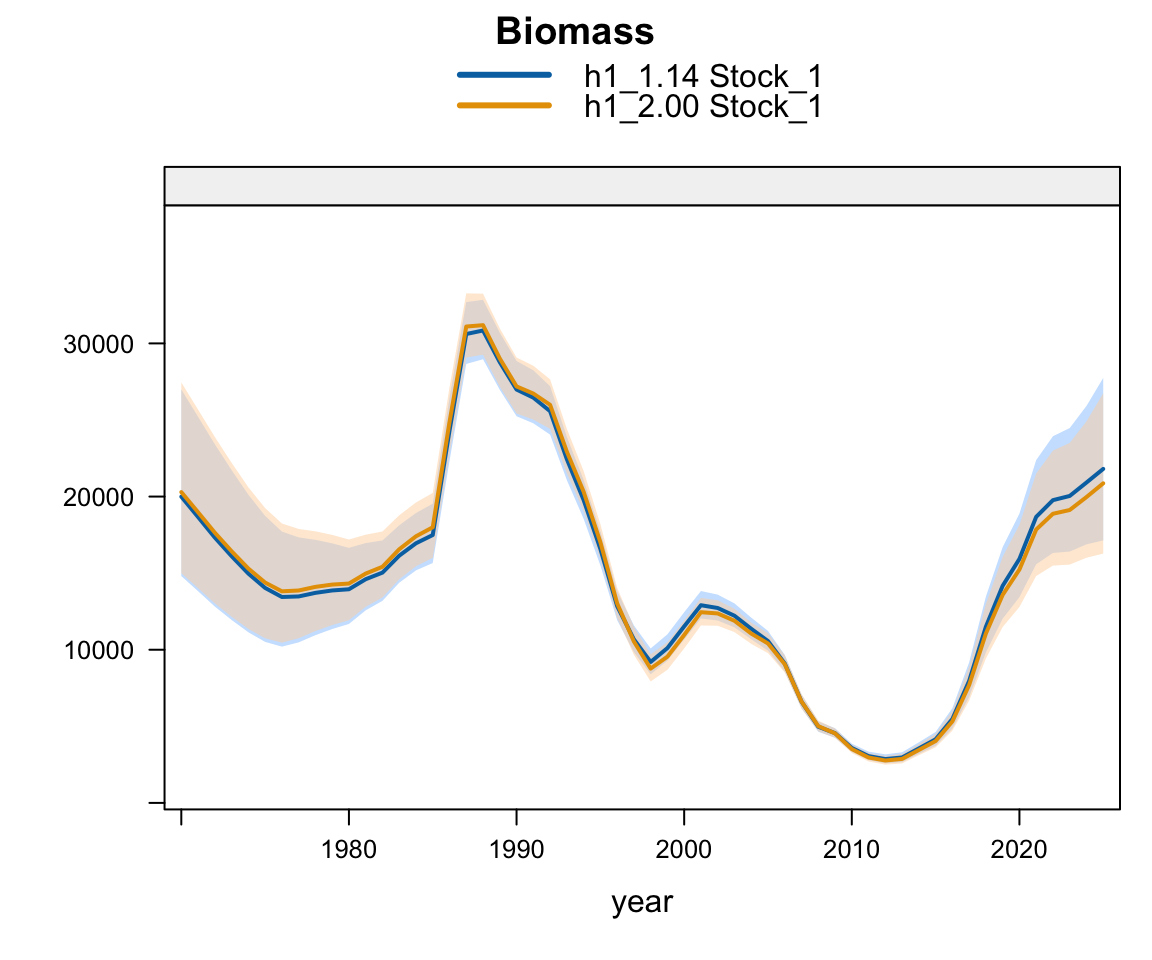
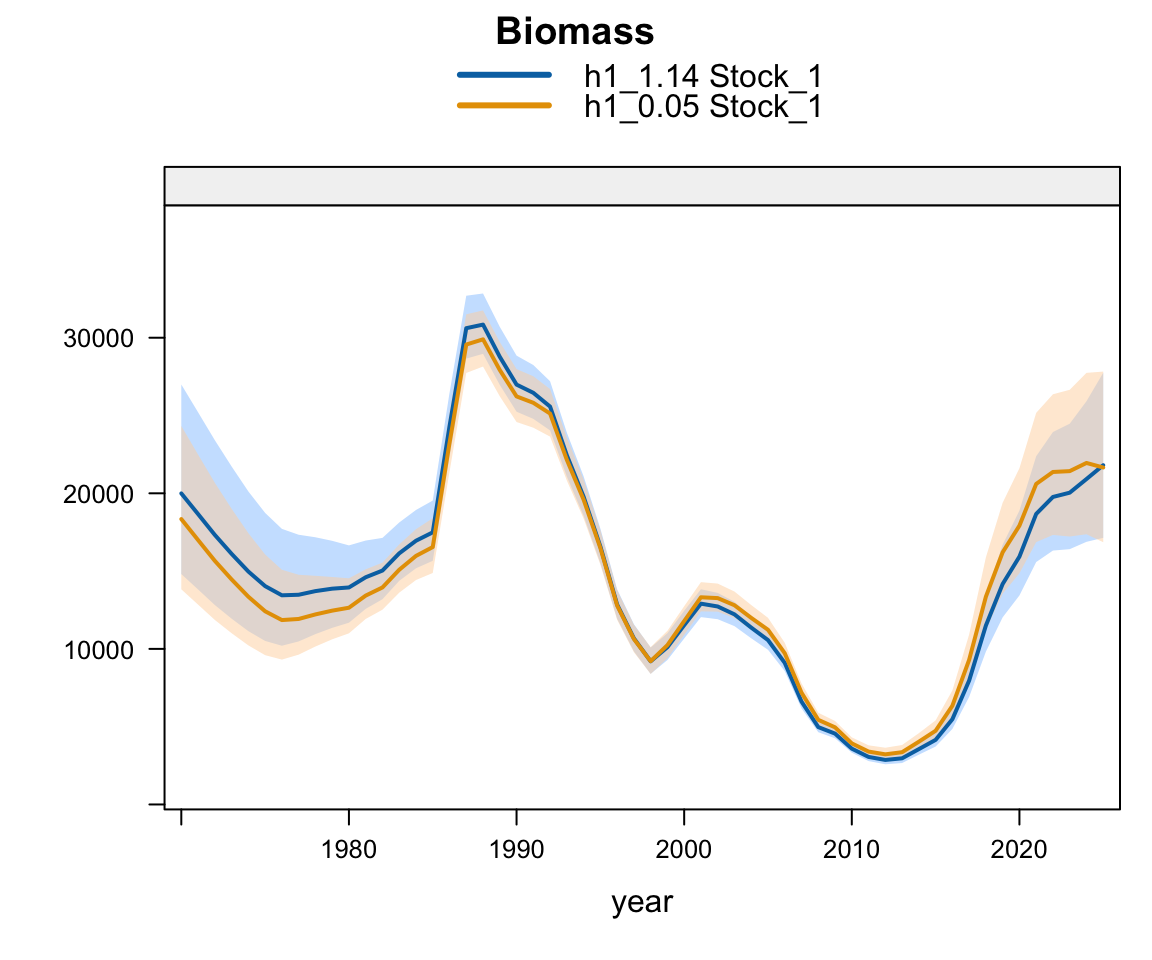
Use 0.05 as SCW16 candidate model

diff --git a/docs/SCW16_models.html b/docs/SCW16_models.html
@@ -344,7 +344,7 @@ pre > code.sourceCode > span > a:first-child::before { text-decoration: underlin
   </div>
 </div>
 <div class="paper-title">Jack Mackerel Assessment SCW16</div>
-<p>This document was originally compiled in <code>RMarkdown</code> then converted into Quarto (a different flavor of markdown). It now tracks the SCW16 benchmark model sequence for Chilean jack mackerel (<em>Trachurus murphyi</em>), beginning with the documented <code>1.14</code> model series and moving to the candidate <code>2.00</code> benchmark pair. The files associated with this document can be found on <a href="https://github.com/SPRFMO/jjm/tree/master/assessment">Github</a>.</p>
+<p>This document was originally compiled in <code>RMarkdown</code> then converted into Quarto (a different flavor of markdown). It now tracks the SCW16 model sequence for Chilean jack mackerel (<em>Trachurus murphyi</em>), beginning with the documented <code>1.14</code> model series and moving to the candidate <code>0.05</code> pair for now. The files associated with this document can be found on <a href="https://github.com/SPRFMO/jjm/tree/master/assessment">Github</a>.</p>
 <p>The code to create the input files for this assessment and to run these models can be found in <a href="https://github.com/SPRFMO/jjm/tree/master/assessment/R/SC13_Bridging.R"><code>jjm/assessment/R/SC13_Bridging.R</code></a>. Should you choose to run the models, please ensure that you have:</p>
 <ul>
 <li>Compiled the latest <code>jjm/src/jjms.tpl</code>
@@ -430,7 +430,7 @@ pre > code.sourceCode > span > a:first-child::before { text-decoration: underlin
 <span id="cb2-58"><a href="#cb2-58" aria-hidden="true" tabindex="-1"></a>}</span>
 <span id="cb2-59"><a href="#cb2-59" aria-hidden="true" tabindex="-1"></a></span>
 <span id="cb2-60"><a href="#cb2-60" aria-hidden="true" tabindex="-1"></a>reference_model <span class="ot">&lt;-</span> <span class="st">"1.14"</span></span>
-<span id="cb2-61"><a href="#cb2-61" aria-hidden="true" tabindex="-1"></a>candidate_model <span class="ot">&lt;-</span> <span class="st">"2.00"</span></span>
+<span id="cb2-61"><a href="#cb2-61" aria-hidden="true" tabindex="-1"></a>candidate_model <span class="ot">&lt;-</span> <span class="st">"0.05"</span></span>
 <span id="cb2-62"><a href="#cb2-62" aria-hidden="true" tabindex="-1"></a>candidate_pair <span class="ot">&lt;-</span> <span class="fu">paste0</span>(<span class="fu">c</span>(<span class="st">"h1_"</span>, <span class="st">"h2_"</span>), candidate_model)</span>
 <span id="cb2-63"><a href="#cb2-63" aria-hidden="true" tabindex="-1"></a>candidate_pair_available <span class="ot">&lt;-</span> <span class="fu">all</span>(<span class="fu">model_file_status</span>(candidate_pair)<span class="sc">$</span>report_file)</span>
 <span id="cb2-64"><a href="#cb2-64" aria-hidden="true" tabindex="-1"></a>finmodname <span class="ot">&lt;-</span> <span class="cf">if</span> (candidate_pair_available) candidate_model <span class="cf">else</span> reference_model</span>
@@ -442,7 +442,7 @@ pre > code.sourceCode > span > a:first-child::before { text-decoration: underlin
 <section id="model-naming-convention" class="level1" data-number="1">
 <h1 data-number="1"><span class="header-section-number">1</span> Model Naming Convention</h1>
 <p>File naming conventions have been changed to reflect the stock structure hypotheses associated with each run. The <code>h1</code> denotes the single-stock hypothesis, while <code>h2</code> denotes the two-stock one.</p>
-<p>For SCW16, the benchmark work is being reorganized around two paired model series:</p>
+<p>For SCW16, the work is being reorganized around the reference pair and the paired <code>0.xx</code> data-replacement sequence:</p>
 <ul>
 <li><code>h1_1.14</code> and <code>h2_1.14</code> are the documented reference models from the SC13 update sequence. They provide the immediate baseline for biological inputs, index treatment, selectivity changes, and FarNorth weight-at-age corrections.</li>
 <li><code>h1_0.00</code> and <code>h2_0.00</code> relabel the <code>1.14</code> reference pair as the SCW16 data-update baseline. The <code>0.00.dat</code> file is the <code>1.14.dat</code> base data file, so the <code>h1_1.14</code> and <code>h2_1.14</code> outputs remain the reference output pair for the first comparisons until the relabeled <code>0.00</code> controls are explicitly rerun.</li>
@@ -450,19 +450,18 @@ pre > code.sourceCode > span > a:first-child::before { text-decoration: underlin
 <li><code>h1_0.02</code> and <code>h2_0.02</code> replace the FarNorth-associated CPUE (<code>Peru_CPUE</code>) with the 2015-2025 series after the Chile CPUE replacement.</li>
 <li><code>h1_0.03</code> and <code>h2_0.03</code> replace the FarNorth fishery length-composition data with the 1972-2025 series after the FarNorth-associated CPUE replacement.</li>
 <li><code>h1_0.04</code> and <code>h2_0.04</code> remove the Peru acoustic index from the <code>0.03</code> data set while retaining the new 2015-2025 FarNorth-associated CPUE series as <code>Peru_CPUE</code>.</li>
-<li><code>h1_0.05</code> and <code>h2_0.05</code> add the split Peru acoustic seasonal survey indices as <code>Peru_Acoust_S1</code> and <code>Peru_Acoust_S2</code>, with length-composition data and independent survey selectivity blocks for each new index.</li>
-<li><code>h1_2.00</code> and <code>h2_2.00</code> define the active SCW16 benchmark candidate pair. This active report keeps those candidate files visible while the incremental <code>0.xx</code> data-replacement sequence is developed.</li>
+<li><code>h1_0.05</code> and <code>h2_0.05</code> add the split Peru acoustic seasonal survey indices as <code>Peru_Acoust_S1</code> and <code>Peru_Acoust_S2</code>, with length-composition data and independent survey selectivity blocks for each new index. This is the active SCW16 candidate pair for now.</li>
 </ul>
 <table class="caption-top table">
 <colgroup>
-<col style="width: 4%">
-<col style="width: 7%">
+<col style="width: 5%">
 <col style="width: 9%">
-<col style="width: 31%">
+<col style="width: 11%">
+<col style="width: 38%">
+<col style="width: 9%">
 <col style="width: 7%">
-<col style="width: 6%">
+<col style="width: 8%">
 <col style="width: 7%">
-<col style="width: 24%">
 </colgroup>
 <thead>
 <tr class="header">
@@ -498,24 +497,24 @@ pre > code.sourceCode > span > a:first-child::before { text-decoration: underlin
 <td style="text-align: left;">available</td>
 </tr>
 <tr class="odd">
-<td style="text-align: left;">h1_2.00</td>
+<td style="text-align: left;">h1_0.05</td>
 <td style="text-align: left;">Single-stock</td>
 <td style="text-align: left;">SCW16 candidate</td>
-<td style="text-align: left;">Candidate single-stock benchmark baseline</td>
+<td style="text-align: left;">Candidate single-stock model</td>
 <td style="text-align: left;">TRUE</td>
 <td style="text-align: left;">TRUE</td>
 <td style="text-align: left;">TRUE</td>
 <td style="text-align: left;">available</td>
 </tr>
 <tr class="even">
-<td style="text-align: left;">h2_2.00</td>
+<td style="text-align: left;">h2_0.05</td>
 <td style="text-align: left;">Two-stock</td>
 <td style="text-align: left;">SCW16 candidate</td>
-<td style="text-align: left;">Candidate two-stock benchmark baseline</td>
-<td style="text-align: left;">FALSE</td>
+<td style="text-align: left;">Candidate two-stock model</td>
 <td style="text-align: left;">TRUE</td>
-<td style="text-align: left;">FALSE</td>
-<td style="text-align: left;">data available; control/results pending</td>
+<td style="text-align: left;">TRUE</td>
+<td style="text-align: left;">TRUE</td>
+<td style="text-align: left;">available</td>
 </tr>
 </tbody>
 </table>
@@ -613,7 +612,7 @@ pre > code.sourceCode > span > a:first-child::before { text-decoration: underlin
 </tr>
 </tbody>
 </table>
-<p>The full historical SC13 bridging table and incremental update sections are omitted from this working SCW16 version so that the report starts with the current paired reference models while tracking the active SCW16 data-replacement and candidate benchmark sequences.</p>
+<p>The full historical SC13 bridging table and incremental update sections are omitted from this working SCW16 version so that the report starts with the current paired reference models while tracking the active SCW16 data-replacement and candidate sequence.</p>
 <p>You will need to be in the <code>jjm/assessment</code> directory in order for the code here to run.</p>
 </section>
 <section id="scw16-data-replacement-sequence" class="level1" data-number="2">
@@ -710,7 +709,7 @@ pre > code.sourceCode > span > a:first-child::before { text-decoration: underlin
 </section>
 <section id="reference-and-candidate-model-comparison" class="level1" data-number="3">
 <h1 data-number="3"><span class="header-section-number">3</span> Reference and Candidate Model Comparison</h1>
-<p>The initial SCW16 benchmark comparison is from the <code>1.14</code> reference pair to the <code>2.00</code> candidate pair. This section is intended to become the main bridge between the documented SC13 update sequence and the benchmark model sequence. The report lists the paired two-stock candidate even when <code>h2_2.00.ctl</code> and its output are still pending.</p>
+<p>The initial SCW16 comparison is from the <code>1.14</code> reference pair to the <code>0.05</code> candidate pair. This section is intended to become the main bridge between the documented SC13 update sequence and the active SCW16 model sequence.</p>
 <section id="single-stock-hypothesis" class="level2" data-number="3.1">
 <h2 data-number="3.1" class="anchored" data-anchor-id="single-stock-hypothesis"><span class="header-section-number">3.1</span> Single-stock hypothesis</h2>
 <div class="tabset-margin-container"></div><div class="panel-tabset">
@@ -721,8 +720,8 @@ pre > code.sourceCode > span > a:first-child::before { text-decoration: underlin
 <div class="cell-output-display">
 <div class="quarto-figure quarto-figure-center">
 <figure class="figure">
-<p><a href="SCW16_models_files/figure-html/scw16_candidate_h1_biomass-1.png" class="lightbox" data-gallery="quarto-lightbox-gallery-7" title="Plot comparing biomass estimates from the h1_1.14 reference model to the h1_2.00 SCW16 candidate model."><img src="SCW16_models_files/figure-html/scw16_candidate_h1_biomass-1.png" class="img-fluid figure-img" width="576" alt="Plot comparing biomass estimates from the h1_1.14 reference model to the h1_2.00 SCW16 candidate model."></a></p>
-<figcaption>Plot comparing biomass estimates from the h1_1.14 reference model to the h1_2.00 SCW16 candidate model.</figcaption>
+<p><a href="SCW16_models_files/figure-html/scw16_candidate_h1_biomass-1.png" class="lightbox" data-gallery="quarto-lightbox-gallery-7" title="Plot comparing biomass estimates from the h1_1.14 reference model to the h1_0.05 SCW16 candidate model."><img src="SCW16_models_files/figure-html/scw16_candidate_h1_biomass-1.png" class="img-fluid figure-img" width="576" alt="Plot comparing biomass estimates from the h1_1.14 reference model to the h1_0.05 SCW16 candidate model."></a></p>
+<figcaption>Plot comparing biomass estimates from the h1_1.14 reference model to the h1_0.05 SCW16 candidate model.</figcaption>
 </figure>
 </div>
 </div>
@@ -733,8 +732,8 @@ pre > code.sourceCode > span > a:first-child::before { text-decoration: underlin
 <div class="cell-output-display">
 <div class="quarto-figure quarto-figure-center">
 <figure class="figure">
-<p><a href="SCW16_models_files/figure-html/scw16_candidate_h1_recruitment-1.png" class="lightbox" data-gallery="quarto-lightbox-gallery-8" title="Plot comparing recruitment estimates from the h1_1.14 reference model to the h1_2.00 SCW16 candidate model."><img src="SCW16_models_files/figure-html/scw16_candidate_h1_recruitment-1.png" class="img-fluid figure-img" width="576" alt="Plot comparing recruitment estimates from the h1_1.14 reference model to the h1_2.00 SCW16 candidate model."></a></p>
-<figcaption>Plot comparing recruitment estimates from the h1_1.14 reference model to the h1_2.00 SCW16 candidate model.</figcaption>
+<p><a href="SCW16_models_files/figure-html/scw16_candidate_h1_recruitment-1.png" class="lightbox" data-gallery="quarto-lightbox-gallery-8" title="Plot comparing recruitment estimates from the h1_1.14 reference model to the h1_0.05 SCW16 candidate model."><img src="SCW16_models_files/figure-html/scw16_candidate_h1_recruitment-1.png" class="img-fluid figure-img" width="576" alt="Plot comparing recruitment estimates from the h1_1.14 reference model to the h1_0.05 SCW16 candidate model."></a></p>
+<figcaption>Plot comparing recruitment estimates from the h1_1.14 reference model to the h1_0.05 SCW16 candidate model.</figcaption>
 </figure>
 </div>
 </div>
@@ -745,8 +744,8 @@ pre > code.sourceCode > span > a:first-child::before { text-decoration: underlin
 <div class="cell-output-display">
 <div class="quarto-figure quarto-figure-center">
 <figure class="figure">
-<p><a href="SCW16_models_files/figure-html/scw16_candidate_h1_fmort-1.png" class="lightbox" data-gallery="quarto-lightbox-gallery-9" title="Plot comparing fishing mortality estimates from the h1_1.14 reference model to the h1_2.00 SCW16 candidate model."><img src="SCW16_models_files/figure-html/scw16_candidate_h1_fmort-1.png" class="img-fluid figure-img" width="576" alt="Plot comparing fishing mortality estimates from the h1_1.14 reference model to the h1_2.00 SCW16 candidate model."></a></p>
-<figcaption>Plot comparing fishing mortality estimates from the h1_1.14 reference model to the h1_2.00 SCW16 candidate model.</figcaption>
+<p><a href="SCW16_models_files/figure-html/scw16_candidate_h1_fmort-1.png" class="lightbox" data-gallery="quarto-lightbox-gallery-9" title="Plot comparing fishing mortality estimates from the h1_1.14 reference model to the h1_0.05 SCW16 candidate model."><img src="SCW16_models_files/figure-html/scw16_candidate_h1_fmort-1.png" class="img-fluid figure-img" width="576" alt="Plot comparing fishing mortality estimates from the h1_1.14 reference model to the h1_0.05 SCW16 candidate model."></a></p>
+<figcaption>Plot comparing fishing mortality estimates from the h1_1.14 reference model to the h1_0.05 SCW16 candidate model.</figcaption>
 </figure>
 </div>
 </div>
@@ -761,13 +760,40 @@ pre > code.sourceCode > span > a:first-child::before { text-decoration: underlin
 <ul class="nav nav-tabs" role="tablist"><li class="nav-item" role="presentation"><a class="nav-link active" id="tabset-4-1-tab" data-bs-toggle="tab" data-bs-target="#tabset-4-1" role="tab" aria-controls="tabset-4-1" aria-selected="true" href="">Biomass</a></li><li class="nav-item" role="presentation"><a class="nav-link" id="tabset-4-2-tab" data-bs-toggle="tab" data-bs-target="#tabset-4-2" role="tab" aria-controls="tabset-4-2" aria-selected="false" href="">Recruitment</a></li><li class="nav-item" role="presentation"><a class="nav-link" id="tabset-4-3-tab" data-bs-toggle="tab" data-bs-target="#tabset-4-3" role="tab" aria-controls="tabset-4-3" aria-selected="false" href="">Fishing Mortality</a></li></ul>
 <div class="tab-content">
 <div id="tabset-4-1" class="tab-pane active" role="tabpanel" aria-labelledby="tabset-4-1-tab">
-
+<div class="cell">
+<div class="cell-output-display">
+<div class="quarto-figure quarto-figure-center">
+<figure class="figure">
+<p><a href="SCW16_models_files/figure-html/scw16_candidate_h2_biomass-1.png" class="lightbox" data-gallery="quarto-lightbox-gallery-10" title="Plot comparing biomass estimates from the h2_1.14 reference model to the h2_0.05 SCW16 candidate model."><img src="SCW16_models_files/figure-html/scw16_candidate_h2_biomass-1.png" class="img-fluid figure-img" width="576" alt="Plot comparing biomass estimates from the h2_1.14 reference model to the h2_0.05 SCW16 candidate model."></a></p>
+<figcaption>Plot comparing biomass estimates from the h2_1.14 reference model to the h2_0.05 SCW16 candidate model.</figcaption>
+</figure>
+</div>
+</div>
+</div>
 </div>
 <div id="tabset-4-2" class="tab-pane" role="tabpanel" aria-labelledby="tabset-4-2-tab">
-
+<div class="cell">
+<div class="cell-output-display">
+<div class="quarto-figure quarto-figure-center">
+<figure class="figure">
+<p><a href="SCW16_models_files/figure-html/scw16_candidate_h2_recruitment-1.png" class="lightbox" data-gallery="quarto-lightbox-gallery-11" title="Plot comparing recruitment estimates from the h2_1.14 reference model to the h2_0.05 SCW16 candidate model."><img src="SCW16_models_files/figure-html/scw16_candidate_h2_recruitment-1.png" class="img-fluid figure-img" width="576" alt="Plot comparing recruitment estimates from the h2_1.14 reference model to the h2_0.05 SCW16 candidate model."></a></p>
+<figcaption>Plot comparing recruitment estimates from the h2_1.14 reference model to the h2_0.05 SCW16 candidate model.</figcaption>
+</figure>
+</div>
+</div>
+</div>
 </div>
 <div id="tabset-4-3" class="tab-pane" role="tabpanel" aria-labelledby="tabset-4-3-tab">
-
+<div class="cell">
+<div class="cell-output-display">
+<div class="quarto-figure quarto-figure-center">
+<figure class="figure">
+<p><a href="SCW16_models_files/figure-html/scw16_candidate_h2_fmort-1.png" class="lightbox" data-gallery="quarto-lightbox-gallery-12" title="Plot comparing fishing mortality estimates from the h2_1.14 reference model to the h2_0.05 SCW16 candidate model."><img src="SCW16_models_files/figure-html/scw16_candidate_h2_fmort-1.png" class="img-fluid figure-img" width="576" alt="Plot comparing fishing mortality estimates from the h2_1.14 reference model to the h2_0.05 SCW16 candidate model."></a></p>
+<figcaption>Plot comparing fishing mortality estimates from the h2_1.14 reference model to the h2_0.05 SCW16 candidate model.</figcaption>
+</figure>
+</div>
+</div>
+</div>
 </div>
 </div>
 </div>
@@ -775,7 +801,7 @@ pre > code.sourceCode > span > a:first-child::before { text-decoration: underlin
 </section>
 <section id="notes" class="level1" data-number="4">
 <h1 data-number="4"><span class="header-section-number">4</span> Notes</h1>
-<p>This working report is currently scoped to <code>h1_1.14.ctl</code> and <code>h2_1.14.ctl</code> as the reference pair, the fitted <code>0.01</code> through <code>0.05</code> data-replacement runs, and the <code>h1_2.00</code> and <code>h2_2.00</code> candidate pair as files and model outputs become available. Additional diagnostic and sensitivity sections can be added back once the benchmark sequence is settled.</p>
+<p>This working report is currently scoped to <code>h1_1.14.ctl</code> and <code>h2_1.14.ctl</code> as the reference pair, the fitted <code>0.01</code> through <code>0.05</code> data-replacement runs, and the <code>h1_0.05</code> and <code>h2_0.05</code> candidate pair. Additional diagnostic and sensitivity sections can be added back once the model sequence is settled.</p>
 
 
 </section>